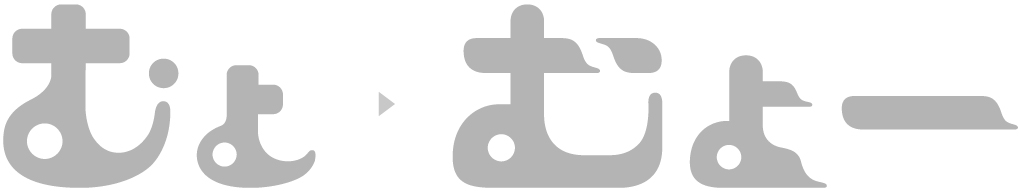
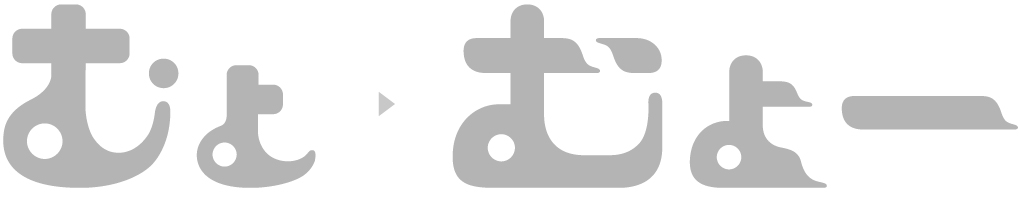
Adjust position of type sort menu

diff --git a/dist/css/style.css b/dist/css/style.css
@@ -1,1 +1,1 @@
-html{font-size:62.5%}body{overflow:hidden}body,button{font-size:1.4rem;font-family:vdl-yotag,Hiragino Kaku Gothic ProN,Hiragino Sans,Meiryo,sans-serif;font-weight:500}button:active{border:none}.wrapper{display:-webkit-box;display:-ms-flexbox;display:flex;visibility:visible;opacity:1;-webkit-transition:1.5s;transition:1.5s}.wrapper--hidden{visibility:hidden;opacity:0}@media screen and (max-width:53.125em){.wrapper{-webkit-box-orient:vertical;-webkit-box-direction:normal;-ms-flex-direction:column;flex-direction:column}}.loading{width:100vw;height:100vh;display:-webkit-box;display:-ms-flexbox;display:flex;-webkit-box-pack:center;-ms-flex-pack:center;justify-content:center;-webkit-box-align:center;-ms-flex-align:center;align-items:center}.loading--hidden{display:none}.loading__img{width:10vw}@media screen and (max-width:53.125em){.loading__img{width:25vw}}.loading__icon{width:100%}.noscript__alert{font-size:1.4rem;line-height:1.7;letter-spacing:.03;color:#ff1919;padding:1.5rem 2rem;margin:3rem;border:.2rem solid #ff1919;border-radius:.8rem}.works{width:39.2%;height:100vh;margin-left:4rem;display:-webkit-box;display:-ms-flexbox;display:flex;-webkit-box-pack:center;-ms-flex-pack:center;justify-content:center;-webkit-box-align:center;-ms-flex-align:center;align-items:center;overflow:auto;opacity:1;-webkit-transition:.7s;transition:.7s}@media screen and (max-width:53.125em){.works{width:100%;max-width:100%;height:39vh;padding:2.99850075vh}}.works--emphasis{width:78.4%;padding:4rem 4rem 0 0;-webkit-box-pack:start;-ms-flex-pack:start;justify-content:start;-webkit-box-align:start;-ms-flex-align:start;align-items:start;-webkit-transition:.7s,padding 0s;transition:.7s,padding 0s}@media screen and (min-width:102.5em){.works--emphasis{width:100%}}@media screen and (max-width:53.125em){.works--emphasis{width:100%;height:78vh;padding-top:2.99850075vh}}.works--hidden{width:4rem;padding:0;margin:0;opacity:0;overflow:hidden;-webkit-transition:.7s;transition:.7s}@media screen and (max-width:53.125em){.works--hidden{height:0}}.works__summary{text-align:center}.works__summary--hidden{display:none}.works__summary__subheading{font-size:3rem;letter-spacing:-.03rem;color:#787878;margin:2rem 0 0}.works__summary__primary-works{display:-webkit-box;display:-ms-flexbox;display:flex;-webkit-box-pack:justify;-ms-flex-pack:justify;justify-content:space-between;width:37rem}.works__summary__primary-work{display:inline-block;width:18rem;padding:4rem 0 2rem;color:#88b5d3}.works__summary__primary-note{font-size:1rem}.works__summary__chart{width:100%;margin-bottom:.7rem}.works__summary__link{display:block;font-size:2rem;color:#88b5d3;padding:2rem 0;margin:0 auto}.works__list{width:100%;height:100%;position:relative}.works__list--hidden{display:none}.works__nav{position:fixed;bottom:2rem;margin-left:calc(78.4% - 19.6359rem);z-index:10}.works__nav--hidden{display:none}.works__nav-list{padding:2rem 2rem 2rem 4rem;background:hsla(0,0%,100%,.8)}.works__sort{position:relative}.works__sort:not(.works__sort--last){margin-bottom:1.6rem}.works__sort-button{font-size:1.6rem;color:#88b5d3}.works__sort--active:after{content:"";width:1.2rem;height:.1rem;background:#88b5d3;position:absolute;top:0;bottom:0;left:-2.5rem;margin:auto 0}.works__contents{display:-webkit-box;display:-ms-flexbox;display:flex;-ms-flex-wrap:wrap;flex-wrap:wrap;-webkit-box-pack:justify;-ms-flex-pack:justify;justify-content:space-between}.works__contents--hidden{display:none}.works__work{width:30.943396226%}.works__work--hidden{display:none}.works__work--empty{visibility:hidden}.works__work-button{margin-bottom:4rem}.works__work-image{width:100%;margin-bottom:.7rem}.works__work-title{font-size:1.6rem;color:#88b5d3;text-align:center}.works__work-note{font-size:1.2rem}.works__detail{position:relative}.works__detail--hidden{display:none}.works__detail__contents{display:-webkit-box;display:-ms-flexbox;display:flex;-webkit-box-pack:justify;-ms-flex-pack:justify;justify-content:space-between}.works__detail__images,.works__detail__text{width:47.641509434%;margin-bottom:4rem;letter-spacing:.03rem}.works__detail__image{width:100%;margin-top:2rem}.works__detail__image--first{margin-top:0}.works__detail__image-caption{margin-top:.7rem;font-family:Hiragino Kaku Gothic ProN,Hiragino Sans,Meiryo,sans-serif;font-size:1.1rem;color:#787878}.works__detail__image-caption-link{color:#88b5d3}.works__detail__image-caption-link:hover{opacity:.8;-webkit-transition:.1s;transition:.1s}.works__detail__title{font-size:3.6rem;margin:0 0 1.4rem;color:#787878;letter-spacing:-.1rem}.works__detail__title-note{font-size:2.4rem}.works__detail__description{font-size:1.3rem;line-height:1.8;color:#787878;margin-bottom:8rem;font-family:Hiragino Kaku Gothic ProN,Hiragino Sans,Meiryo,sans-serif}.works__detail__description--last{margin-bottom:0}.works__detail__description-link{color:#88b5d3;margin-right:1.8rem;position:relative}.works__detail__description-link:after{content:url(../image/icon_blank.svg);position:absolute;top:-.5rem;right:-1.4rem}.works__detail__description-link:hover{opacity:.8;-webkit-transition:.1s;transition:.1s}.works__detail__links{margin-top:3.4rem;line-height:1}.works__detail__link{font-size:2.6rem;font-family:vdl-yotag,Hiragino Kaku Gothic ProN,Hiragino Sans,Meiryo,sans-serif;color:#88b5d3;display:inline-block;position:relative;margin-bottom:2rem}.works__detail__link--last{margin-bottom:0}.works__detail__link:hover{opacity:.8;-webkit-transition:.1s;transition:.1s}.works__detail__link:after{content:url(../image/icon_blank.svg);position:absolute;bottom:0;right:-1.6rem}.works__detail__image-link{position:relative;width:100%;display:block}.works__detail__image-link--movie:before{content:"";position:absolute;top:2rem;left:0;width:100%;height:calc(100% - 2rem);background:rgba(0,0,0,.6);z-index:10}.works__detail__image-link--movie:after{content:"";width:8.7rem;height:8.1rem;background-image:url(../image/icon_movie.png);background-size:cover;position:absolute;top:calc(50% + 2rem);left:50%;-webkit-transform:translate(-50%,-50%);transform:translate(-50%,-50%);z-index:20}.works__detail__heading{font-size:3rem;margin:0 0 1.4rem;color:#787878}.works__detail__heading--kata{letter-spacing:-.3rem}.works__detail__process{display:-webkit-box;display:-ms-flexbox;display:flex;-ms-flex-wrap:wrap;flex-wrap:wrap}.works__detail__process-list{width:7rem;height:7rem;border:.1rem solid #c8c8c8;border-radius:50%;font-size:1.8rem;color:#787878;text-align:center;position:relative;display:-webkit-box;display:-ms-flexbox;display:flex;-webkit-box-pack:center;-ms-flex-pack:center;justify-content:center;-webkit-box-align:center;-ms-flex-align:center;align-items:center;margin:0 3rem 1.4rem 0}.works__detail__process-list:not(.works__detail__process-list--last):after{content:url(../image/works_process_allow.svg);position:absolute;top:50%;right:-2rem;-webkit-transform:translateY(-50%);transform:translateY(-50%)}.works__detail__process-list--link{border-color:#88b5d3}.works__detail__process-list--last{margin-right:0}.works__detail__process-link{color:#88b5d3;display:block;margin-top:-1.3rem;padding:.5rem}.works__detail__process-link:after{content:url(../image/icon_blank.svg);position:absolute;bottom:.6rem;left:0;right:0;margin:0 auto}.works__detail__process-link:hover{opacity:.8;-webkit-transition:.1s;transition:.1s}.works__detail__process-image{width:100%;margin-bottom:.4rem}.works__detail__process-image:not(:first-of-type){margin-top:4rem}.works__detail__itemize{display:-webkit-box;display:-ms-flexbox;display:flex;-webkit-box-pack:justify;-ms-flex-pack:justify;justify-content:space-between}.works__detail__item{width:46.078431373%}.works__close{font-size:1.6rem;color:#88b5d3;padding:1.5rem 2rem;background:hsla(0,0%,100%,.8);position:fixed;top:0;margin-left:calc(78.4% - 15.9375rem);z-index:10}.works__loading{width:100%;height:82.616179002vh;display:-webkit-box;display:-ms-flexbox;display:flex;-webkit-box-pack:center;-ms-flex-pack:center;justify-content:center;-webkit-box-align:center;-ms-flex-align:center;align-items:center}@media screen and (max-width:53.125em){.works__loading{height:70.804497751vh}}.works__loading--hidden{display:none}.works__loading__img{width:10%}@media screen and (max-width:53.125em){.works__loading__img{width:25%}}.works__loading__icon{width:100%}.main-nav{width:21.6%;height:100vh;max-width:27rem;margin:0 .1rem;-webkit-box-shadow:0 0 .2rem 0 #c8c8c8;box-shadow:0 0 .2rem 0 #c8c8c8;position:relative;display:-webkit-box;display:-ms-flexbox;display:flex;-webkit-box-orient:vertical;-webkit-box-direction:normal;-ms-flex-direction:column;flex-direction:column;-webkit-box-pack:justify;-ms-flex-pack:justify;justify-content:space-between}@media screen and (max-width:53.125em){.main-nav{width:100%;max-width:100%;height:22vh;padding:2.99850075vh 0 2.248875562vh;margin:0;-webkit-box-shadow:0 0 .4rem 0 #c8c8c8;box-shadow:0 0 .4rem 0 #c8c8c8}}.main-nav__title{width:calc(100% - 8rem);max-width:19rem;margin:4rem auto;cursor:pointer}@media screen and (max-width:53.125em){.main-nav__titles{display:-webkit-box;display:-ms-flexbox;display:flex;margin-bottom:.449775112vh;padding:0 2.99850075vh}.main-nav__title{width:10.344827586vh;max-width:10.344827586vh;margin-bottom:0;display:inline-block}}.main-nav__logo{width:100%}@media screen and (max-width:53.125em){.main-nav-sp__descriptions{display:-webkit-box;display:-ms-flexbox;display:flex;-webkit-box-orient:vertical;-webkit-box-direction:normal;-ms-flex-direction:column;flex-direction:column;margin-left:2.3988006vh}}.main-nav__description{font-size:1.4rem;line-height:2.6rem;letter-spacing:.1rem;color:#787878;padding:0 4rem;margin-bottom:4rem}@media screen and (max-width:80em){.main-nav__description{font-size:1.2rem;margin-bottom:2.5rem;letter-spacing:.03rem;line-height:2rem}}@media screen and (max-width:53.125em){.main-nav__description{font-size:1.649175412vh;line-height:1.5;margin-bottom:0}}@media screen and (max-width:53.125em){.main-nav__link-lists{display:-webkit-box;display:-ms-flexbox;display:flex;-webkit-box-pack:justify;-ms-flex-pack:justify;justify-content:space-between}}.main-nav__link-list{font-size:2rem;text-align:center;position:relative;margin-bottom:3rem;cursor:pointer}@media screen and (max-width:80em){.main-nav__link-list{font-size:1.8rem;padding-bottom:.8rem;margin-bottom:2.5rem}}@media screen and (max-width:53.125em){.main-nav__link-list{width:33.33333vw;font-size:1.949025487vh;text-align:center;padding:2.248875562vh 0 2.99850075vh;border:none;margin-bottom:0;position:relative}.main-nav__link-list:not(:last-of-type):before{content:"";width:.1rem;height:5.097451274vh;background:#88b5d3;position:absolute;top:1.499250375vh;right:0}.main-nav__link-list:after{top:auto;left:0;right:0;bottom:.59970015vh;margin:0 auto;-webkit-transform:rotate(90deg) scale(.8);transform:rotate(90deg) scale(.8)}}.main-nav__link-list--blank:after{content:url(../image/icon_blank.svg);position:absolute;top:50%;left:4rem;-webkit-transform:translateY(-50%);transform:translateY(-50%)}.main-nav__link-button{width:100%;font-size:2rem;color:#88b5d3}.main-nav__link-button--active:after{content:"";width:1.2rem;height:.1rem;background:#88b5d3;position:absolute;top:50%;left:4rem;-webkit-transform:translateY(-50%);transform:translateY(-50%)}.main-nav__link{color:#88b5d3;display:block}.main-nav__icon-link-list{display:-webkit-box;display:-ms-flexbox;display:flex;position:absolute;bottom:4rem;left:4rem;visibility:visible;opacity:1;-webkit-transition:.3s;transition:.3s}@media screen and (max-width:53.125em){.main-nav__icon-link-list{top:2.248875562vh;bottom:auto;left:auto;right:2.99850075vh}}.main-nav__icon-link-list--hidden{visibility:hidden;opacity:0;-webkit-transition:.3s;transition:.3s}.main-nav__icon-link:not(:first-of-type){margin-left:3rem}@media screen and (max-width:80em){.main-nav__icon-link:not(:first-of-type){margin-left:1.8rem}}.main-nav__icon-link--github{width:3.3rem}.main-nav__icon-link--note{width:2.8rem}.main-nav__icon-link--blog{width:3.2rem}@media screen and (max-width:80em){.main-nav__icon-link--github{width:2.6rem}.main-nav__icon-link--note{width:2.1rem}.main-nav__icon-link--blog{width:2.5rem}}.main-nav__icon-link__logo{width:100%}.main-nav__footer{padding:0 .5rem .5rem;font-family:Hiragino Kaku Gothic ProN,Hiragino Sans,Meiryo,sans-serif;font-size:1rem;color:#c8c8c8;line-height:1.5;letter-spacing:-.02rem;text-align:center}@media screen and (max-width:53.125em){.main-nav__footer{left:auto;right:.449775112vh;bottom:.449775112vh;padding:0}}.main-nav__policy{font-size:1rem;color:#88b5d3;font-family:Hiragino Kaku Gothic ProN,Hiragino Sans,Meiryo,sans-serif}.about{width:39.2%;height:100vh;margin-left:4rem;display:-webkit-box;display:-ms-flexbox;display:flex;-webkit-box-pack:center;-ms-flex-pack:center;justify-content:center;-webkit-box-align:center;-ms-flex-align:center;align-items:center;overflow:auto;opacity:1;-webkit-transition:.7s;transition:.7s}@media screen and (max-width:53.125em){.about{width:100%;max-width:100%;height:39vh;padding:2.99850075vh}}.about--emphasis{width:78.4%;padding:4rem 4rem 0 0;-webkit-box-pack:start;-ms-flex-pack:start;justify-content:start;-webkit-box-align:start;-ms-flex-align:start;align-items:start;-webkit-transition:.7s,padding 0s;transition:.7s,padding 0s}@media screen and (min-width:102.5em){.about--emphasis{width:100%}}@media screen and (max-width:53.125em){.about--emphasis{width:100%;height:78vh;padding-top:2.99850075vh}}.about--hidden{width:4rem;padding:0;margin:0;opacity:0;overflow:hidden;-webkit-transition:.7s;transition:.7s}@media screen and (max-width:53.125em){.about--hidden{height:0}}.about__summary{text-align:center}.about__summary--hidden{display:none}.about__summary__heading{font-size:3rem;letter-spacing:-.03rem;color:#787878;margin:2rem 0 4.6rem}.about__summary__img{display:-webkit-box;display:-ms-flexbox;display:flex;-webkit-box-pack:center;-ms-flex-pack:center;justify-content:center;-webkit-box-align:center;-ms-flex-align:center;align-items:center;width:5rem;height:5rem;margin:0 auto 1.4rem}.about__allow{width:24.6rem;margin:0 auto 3rem}.about__summary__chart{width:100%}.about__summary__descriptions{display:-webkit-box;display:-ms-flexbox;display:flex;-webkit-box-pack:justify;-ms-flex-pack:justify;justify-content:space-between;width:36rem;margin:1.4rem 0}.about__summary__description{color:#787878;text-align:center;width:12rem;position:relative}.about__summary__description:not(.about__summary__description--last):after{content:"";width:2.5rem;height:.1rem;background:#c8c8c8;position:absolute;top:2.5rem;right:-1.2rem}.about__summary__description-note{font-size:1.1rem}.about__summary__description--boss,.about__summary__description--friend{margin-left:4rem}.about__summary__link{display:block;font-size:2rem;color:#88b5d3;padding:2rem 0;margin:0 auto}.about__profile{width:100%}.about__profile--hidden{display:none}.about__title{display:-webkit-box;display:-ms-flexbox;display:flex;margin-bottom:8rem}.about__image{width:100%}.about__character{width:9.6rem}.about__names{display:-webkit-box;display:-ms-flexbox;display:flex;-webkit-box-orient:vertical;-webkit-box-direction:normal;-ms-flex-direction:column;flex-direction:column;-webkit-box-pack:end;-ms-flex-pack:end;justify-content:flex-end;margin-left:2rem}.about__logo-image{width:14rem;margin-bottom:.7rem}.about__logo{width:100%}.about__subtitle{font-size:3rem;color:#787878;letter-spacing:-.1rem}.about__details{display:-webkit-box;display:-ms-flexbox;display:flex;-webkit-box-pack:justify;-ms-flex-pack:justify;justify-content:space-between;-ms-flex-wrap:wrap;flex-wrap:wrap}.about__detail{width:calc(50% - 2rem);margin-bottom:8rem}.about__detail--empty{visibility:hidden}.about__detail-title{font-size:3rem;color:#787878;margin-bottom:2rem}.about__detail-title--kata{letter-spacing:-.3rem}.about__rpg-chart{width:32.4rem;margin-bottom:2rem}.about__description{font-size:1.3rem;font-family:Hiragino Kaku Gothic ProN,Hiragino Sans,Meiryo,sans-serif;color:#787878;line-height:1.8;letter-spacing:.05rem}.about__note{font-size:1rem}.about__contact{font-size:2.4rem;color:#88b5d3}.about__detail-icon{width:14.7rem;margin-bottom:2rem}
+html{font-size:62.5%}body{overflow:hidden}body,button{font-size:1.4rem;font-family:vdl-yotag,Hiragino Kaku Gothic ProN,Hiragino Sans,Meiryo,sans-serif;font-weight:500}button:active{border:none}.wrapper{display:-webkit-box;display:-ms-flexbox;display:flex;visibility:visible;opacity:1;-webkit-transition:1.5s;transition:1.5s}.wrapper--hidden{visibility:hidden;opacity:0}@media screen and (max-width:53.125em){.wrapper{-webkit-box-orient:vertical;-webkit-box-direction:normal;-ms-flex-direction:column;flex-direction:column}}.loading{width:100vw;height:100vh;display:-webkit-box;display:-ms-flexbox;display:flex;-webkit-box-pack:center;-ms-flex-pack:center;justify-content:center;-webkit-box-align:center;-ms-flex-align:center;align-items:center}.loading--hidden{display:none}.loading__img{width:10vw}@media screen and (max-width:53.125em){.loading__img{width:25vw}}.loading__icon{width:100%}.noscript__alert{font-size:1.4rem;line-height:1.7;letter-spacing:.03;color:#ff1919;padding:1.5rem 2rem;margin:3rem;border:.2rem solid #ff1919;border-radius:.8rem}.works{width:39.2%;height:100vh;margin-left:4rem;display:-webkit-box;display:-ms-flexbox;display:flex;-webkit-box-pack:center;-ms-flex-pack:center;justify-content:center;-webkit-box-align:center;-ms-flex-align:center;align-items:center;overflow:auto;opacity:1;-webkit-transition:.7s;transition:.7s}@media screen and (max-width:53.125em){.works{width:100%;max-width:100%;height:39vh;padding:2.99850075vh}}.works--emphasis{width:78.4%;padding:4rem 4rem 0 0;-webkit-box-pack:start;-ms-flex-pack:start;justify-content:start;-webkit-box-align:start;-ms-flex-align:start;align-items:start;-webkit-transition:.7s,padding 0s;transition:.7s,padding 0s}@media screen and (min-width:102.5em){.works--emphasis{width:100%}}@media screen and (max-width:53.125em){.works--emphasis{width:100%;height:78vh;padding-top:2.99850075vh}}.works--hidden{width:4rem;padding:0;margin:0;opacity:0;overflow:hidden;-webkit-transition:.7s;transition:.7s}@media screen and (max-width:53.125em){.works--hidden{height:0}}.works__summary{text-align:center}.works__summary--hidden{display:none}.works__summary__subheading{font-size:3rem;letter-spacing:-.03rem;color:#787878;margin:2rem 0 0}.works__summary__primary-works{display:-webkit-box;display:-ms-flexbox;display:flex;-webkit-box-pack:justify;-ms-flex-pack:justify;justify-content:space-between;width:37rem}.works__summary__primary-work{display:inline-block;width:18rem;padding:4rem 0 2rem;color:#88b5d3}.works__summary__primary-note{font-size:1rem}.works__summary__chart{width:100%;margin-bottom:.7rem}.works__summary__link{display:block;font-size:2rem;color:#88b5d3;padding:2rem 0;margin:0 auto}.works__list{width:100%;height:100%;position:relative;display:-webkit-box;display:-ms-flexbox;display:flex;-webkit-box-pack:end;-ms-flex-pack:end;justify-content:flex-end;-webkit-box-align:start;-ms-flex-align:start;align-items:flex-start}.works__list--hidden{display:none}.works__nav{position:fixed;bottom:2rem;z-index:10;margin-left:2rem}.works__nav--hidden{display:none}.works__nav-list{padding:2rem 2rem 2rem 4rem;background:hsla(0,0%,100%,.8)}.works__sort{position:relative}.works__sort:not(.works__sort--last){margin-bottom:1.6rem}.works__sort-button{font-size:1.6rem;color:#88b5d3}.works__sort--active:after{content:"";width:1.2rem;height:.1rem;background:#88b5d3;position:absolute;top:0;bottom:0;left:-2.5rem;margin:auto 0}.works__contents{display:-webkit-box;display:-ms-flexbox;display:flex;-ms-flex-wrap:wrap;flex-wrap:wrap;-webkit-box-pack:justify;-ms-flex-pack:justify;justify-content:space-between;width:100%}.works__contents--hidden{display:none}.works__work{width:30.943396226%}.works__work--hidden{display:none}.works__work--empty{visibility:hidden}.works__work-button{margin-bottom:4rem}.works__work-image{width:100%;margin-bottom:.7rem}.works__work-title{font-size:1.6rem;color:#88b5d3;text-align:center}.works__work-note{font-size:1.2rem}.works__detail{position:relative;display:-webkit-box;display:-ms-flexbox;display:flex;-webkit-box-pack:end;-ms-flex-pack:end;justify-content:flex-end}.works__detail--hidden{display:none}.works__detail__contents{display:-webkit-box;display:-ms-flexbox;display:flex;-webkit-box-pack:justify;-ms-flex-pack:justify;justify-content:space-between}.works__detail__images,.works__detail__text{width:47.641509434%;margin-bottom:4rem;letter-spacing:.03rem}.works__detail__image{width:100%;margin-top:2rem}.works__detail__image--first{margin-top:0}.works__detail__image-caption{margin-top:.7rem;font-family:Hiragino Kaku Gothic ProN,Hiragino Sans,Meiryo,sans-serif;font-size:1.1rem;color:#787878}.works__detail__image-caption-link{color:#88b5d3}.works__detail__image-caption-link:hover{opacity:.8;-webkit-transition:.1s;transition:.1s}.works__detail__title{font-size:3.6rem;margin:0 0 1.4rem;color:#787878;letter-spacing:-.1rem}.works__detail__title-note{font-size:2.4rem}.works__detail__description{font-size:1.3rem;line-height:1.8;color:#787878;margin-bottom:8rem;font-family:Hiragino Kaku Gothic ProN,Hiragino Sans,Meiryo,sans-serif}.works__detail__description--last{margin-bottom:0}.works__detail__description-link{color:#88b5d3;margin-right:1.8rem;position:relative}.works__detail__description-link:after{content:url(../image/icon_blank.svg);position:absolute;top:-.5rem;right:-1.4rem}.works__detail__description-link:hover{opacity:.8;-webkit-transition:.1s;transition:.1s}.works__detail__links{margin-top:3.4rem;line-height:1}.works__detail__link{font-size:2.6rem;font-family:vdl-yotag,Hiragino Kaku Gothic ProN,Hiragino Sans,Meiryo,sans-serif;color:#88b5d3;display:inline-block;position:relative;margin-bottom:2rem}.works__detail__link--last{margin-bottom:0}.works__detail__link:hover{opacity:.8;-webkit-transition:.1s;transition:.1s}.works__detail__link:after{content:url(../image/icon_blank.svg);position:absolute;bottom:0;right:-1.6rem}.works__detail__image-link{position:relative;width:100%;display:block}.works__detail__image-link--movie:before{content:"";position:absolute;top:2rem;left:0;width:100%;height:calc(100% - 2rem);background:rgba(0,0,0,.6);z-index:10}.works__detail__image-link--movie:after{content:"";width:8.7rem;height:8.1rem;background-image:url(../image/icon_movie.png);background-size:cover;position:absolute;top:calc(50% + 2rem);left:50%;-webkit-transform:translate(-50%,-50%);transform:translate(-50%,-50%);z-index:20}.works__detail__heading{font-size:3rem;margin:0 0 1.4rem;color:#787878}.works__detail__heading--kata{letter-spacing:-.3rem}.works__detail__process{display:-webkit-box;display:-ms-flexbox;display:flex;-ms-flex-wrap:wrap;flex-wrap:wrap}.works__detail__process-list{width:7rem;height:7rem;border:.1rem solid #c8c8c8;border-radius:50%;font-size:1.8rem;color:#787878;text-align:center;position:relative;display:-webkit-box;display:-ms-flexbox;display:flex;-webkit-box-pack:center;-ms-flex-pack:center;justify-content:center;-webkit-box-align:center;-ms-flex-align:center;align-items:center;margin:0 3rem 1.4rem 0}.works__detail__process-list:not(.works__detail__process-list--last):after{content:url(../image/works_process_allow.svg);position:absolute;top:50%;right:-2rem;-webkit-transform:translateY(-50%);transform:translateY(-50%)}.works__detail__process-list--link{border-color:#88b5d3}.works__detail__process-list--last{margin-right:0}.works__detail__process-link{color:#88b5d3;display:block;margin-top:-1.3rem;padding:.5rem}.works__detail__process-link:after{content:url(../image/icon_blank.svg);position:absolute;bottom:.6rem;left:0;right:0;margin:0 auto}.works__detail__process-link:hover{opacity:.8;-webkit-transition:.1s;transition:.1s}.works__detail__process-image{width:100%;margin-bottom:.4rem}.works__detail__process-image:not(:first-of-type){margin-top:4rem}.works__detail__itemize{display:-webkit-box;display:-ms-flexbox;display:flex;-webkit-box-pack:justify;-ms-flex-pack:justify;justify-content:space-between}.works__detail__item{width:46.078431373%}.works__close{font-size:1.6rem;color:#88b5d3;padding:1.5rem 2rem;background:hsla(0,0%,100%,.8);position:fixed;top:0;margin-left:2rem;z-index:10}.works__loading{width:100%;height:82.616179002vh;display:-webkit-box;display:-ms-flexbox;display:flex;-webkit-box-pack:center;-ms-flex-pack:center;justify-content:center;-webkit-box-align:center;-ms-flex-align:center;align-items:center}@media screen and (max-width:53.125em){.works__loading{height:70.804497751vh}}.works__loading--hidden{display:none}.works__loading__img{width:10%}@media screen and (max-width:53.125em){.works__loading__img{width:25%}}.works__loading__icon{width:100%}.main-nav{width:21.6%;height:100vh;max-width:27rem;margin:0 .1rem;-webkit-box-shadow:0 0 .2rem 0 #c8c8c8;box-shadow:0 0 .2rem 0 #c8c8c8;position:relative;display:-webkit-box;display:-ms-flexbox;display:flex;-webkit-box-orient:vertical;-webkit-box-direction:normal;-ms-flex-direction:column;flex-direction:column;-webkit-box-pack:justify;-ms-flex-pack:justify;justify-content:space-between}@media screen and (max-width:53.125em){.main-nav{width:100%;max-width:100%;height:22vh;padding:2.99850075vh 0 2.248875562vh;margin:0;-webkit-box-shadow:0 0 .4rem 0 #c8c8c8;box-shadow:0 0 .4rem 0 #c8c8c8}}.main-nav__title{width:calc(100% - 8rem);max-width:19rem;margin:4rem auto;cursor:pointer}@media screen and (max-width:53.125em){.main-nav__titles{display:-webkit-box;display:-ms-flexbox;display:flex;margin-bottom:.449775112vh;padding:0 2.99850075vh}.main-nav__title{width:10.344827586vh;max-width:10.344827586vh;margin-bottom:0;display:inline-block}}.main-nav__logo{width:100%}@media screen and (max-width:53.125em){.main-nav-sp__descriptions{display:-webkit-box;display:-ms-flexbox;display:flex;-webkit-box-orient:vertical;-webkit-box-direction:normal;-ms-flex-direction:column;flex-direction:column;margin-left:2.3988006vh}}.main-nav__description{font-size:1.4rem;line-height:2.6rem;letter-spacing:.1rem;color:#787878;padding:0 4rem;margin-bottom:4rem}@media screen and (max-width:80em){.main-nav__description{font-size:1.2rem;margin-bottom:2.5rem;letter-spacing:.03rem;line-height:2rem}}@media screen and (max-width:53.125em){.main-nav__description{font-size:1.649175412vh;line-height:1.5;margin-bottom:0}}@media screen and (max-width:53.125em){.main-nav__link-lists{display:-webkit-box;display:-ms-flexbox;display:flex;-webkit-box-pack:justify;-ms-flex-pack:justify;justify-content:space-between}}.main-nav__link-list{font-size:2rem;text-align:center;position:relative;margin-bottom:3rem;cursor:pointer}@media screen and (max-width:80em){.main-nav__link-list{font-size:1.8rem;padding-bottom:.8rem;margin-bottom:2.5rem}}@media screen and (max-width:53.125em){.main-nav__link-list{width:33.33333vw;font-size:1.949025487vh;text-align:center;padding:2.248875562vh 0 2.99850075vh;border:none;margin-bottom:0;position:relative}.main-nav__link-list:not(:last-of-type):before{content:"";width:.1rem;height:5.097451274vh;background:#88b5d3;position:absolute;top:1.499250375vh;right:0}.main-nav__link-list:after{top:auto;left:0;right:0;bottom:.59970015vh;margin:0 auto;-webkit-transform:rotate(90deg) scale(.8);transform:rotate(90deg) scale(.8)}}.main-nav__link-list--blank:after{content:url(../image/icon_blank.svg);position:absolute;top:50%;left:4rem;-webkit-transform:translateY(-50%);transform:translateY(-50%)}.main-nav__link-button{width:100%;font-size:2rem;color:#88b5d3}.main-nav__link-button--active:after{content:"";width:1.2rem;height:.1rem;background:#88b5d3;position:absolute;top:50%;left:4rem;-webkit-transform:translateY(-50%);transform:translateY(-50%)}.main-nav__link{color:#88b5d3;display:block}.main-nav__icon-link-list{display:-webkit-box;display:-ms-flexbox;display:flex;position:absolute;bottom:4rem;left:4rem;visibility:visible;opacity:1;-webkit-transition:.3s;transition:.3s}@media screen and (max-width:53.125em){.main-nav__icon-link-list{top:2.248875562vh;bottom:auto;left:auto;right:2.99850075vh}}.main-nav__icon-link-list--hidden{visibility:hidden;opacity:0;-webkit-transition:.3s;transition:.3s}.main-nav__icon-link:not(:first-of-type){margin-left:3rem}@media screen and (max-width:80em){.main-nav__icon-link:not(:first-of-type){margin-left:1.8rem}}.main-nav__icon-link--github{width:3.3rem}.main-nav__icon-link--note{width:2.8rem}.main-nav__icon-link--blog{width:3.2rem}@media screen and (max-width:80em){.main-nav__icon-link--github{width:2.6rem}.main-nav__icon-link--note{width:2.1rem}.main-nav__icon-link--blog{width:2.5rem}}.main-nav__icon-link__logo{width:100%}.main-nav__footer{padding:0 .5rem .5rem;font-family:Hiragino Kaku Gothic ProN,Hiragino Sans,Meiryo,sans-serif;font-size:1rem;color:#c8c8c8;line-height:1.5;letter-spacing:-.02rem;text-align:center}@media screen and (max-width:53.125em){.main-nav__footer{left:auto;right:.449775112vh;bottom:.449775112vh;padding:0}}.main-nav__policy{font-size:1rem;color:#88b5d3;font-family:Hiragino Kaku Gothic ProN,Hiragino Sans,Meiryo,sans-serif}.about{width:39.2%;height:100vh;margin-left:4rem;display:-webkit-box;display:-ms-flexbox;display:flex;-webkit-box-pack:center;-ms-flex-pack:center;justify-content:center;-webkit-box-align:center;-ms-flex-align:center;align-items:center;overflow:auto;opacity:1;-webkit-transition:.7s;transition:.7s}@media screen and (max-width:53.125em){.about{width:100%;max-width:100%;height:39vh;padding:2.99850075vh}}.about--emphasis{width:78.4%;padding:4rem 4rem 0 0;-webkit-box-pack:start;-ms-flex-pack:start;justify-content:start;-webkit-box-align:start;-ms-flex-align:start;align-items:start;-webkit-transition:.7s,padding 0s;transition:.7s,padding 0s}@media screen and (min-width:102.5em){.about--emphasis{width:100%}}@media screen and (max-width:53.125em){.about--emphasis{width:100%;height:78vh;padding-top:2.99850075vh}}.about--hidden{width:4rem;padding:0;margin:0;opacity:0;overflow:hidden;-webkit-transition:.7s;transition:.7s}@media screen and (max-width:53.125em){.about--hidden{height:0}}.about__summary{text-align:center}.about__summary--hidden{display:none}.about__summary__heading{font-size:3rem;letter-spacing:-.03rem;color:#787878;margin:2rem 0 4.6rem}.about__summary__img{display:-webkit-box;display:-ms-flexbox;display:flex;-webkit-box-pack:center;-ms-flex-pack:center;justify-content:center;-webkit-box-align:center;-ms-flex-align:center;align-items:center;width:5rem;height:5rem;margin:0 auto 1.4rem}.about__allow{width:24.6rem;margin:0 auto 3rem}.about__summary__chart{width:100%}.about__summary__descriptions{display:-webkit-box;display:-ms-flexbox;display:flex;-webkit-box-pack:justify;-ms-flex-pack:justify;justify-content:space-between;width:36rem;margin:1.4rem 0}.about__summary__description{color:#787878;text-align:center;width:12rem;position:relative}.about__summary__description:not(.about__summary__description--last):after{content:"";width:2.5rem;height:.1rem;background:#c8c8c8;position:absolute;top:2.5rem;right:-1.2rem}.about__summary__description-note{font-size:1.1rem}.about__summary__description--boss,.about__summary__description--friend{margin-left:4rem}.about__summary__link{display:block;font-size:2rem;color:#88b5d3;padding:2rem 0;margin:0 auto}.about__profile{width:100%}.about__profile--hidden{display:none}.about__title{display:-webkit-box;display:-ms-flexbox;display:flex;margin-bottom:8rem}.about__image{width:100%}.about__character{width:9.6rem}.about__names{display:-webkit-box;display:-ms-flexbox;display:flex;-webkit-box-orient:vertical;-webkit-box-direction:normal;-ms-flex-direction:column;flex-direction:column;-webkit-box-pack:end;-ms-flex-pack:end;justify-content:flex-end;margin-left:2rem}.about__logo-image{width:14rem;margin-bottom:.7rem}.about__logo{width:100%}.about__subtitle{font-size:3rem;color:#787878;letter-spacing:-.1rem}.about__details{display:-webkit-box;display:-ms-flexbox;display:flex;-webkit-box-pack:justify;-ms-flex-pack:justify;justify-content:space-between;-ms-flex-wrap:wrap;flex-wrap:wrap}.about__detail{width:calc(50% - 2rem);margin-bottom:8rem}.about__detail--empty{visibility:hidden}.about__detail-title{font-size:3rem;color:#787878;margin-bottom:2rem}.about__detail-title--kata{letter-spacing:-.3rem}.about__rpg-chart{width:32.4rem;margin-bottom:2rem}.about__description{font-size:1.3rem;font-family:Hiragino Kaku Gothic ProN,Hiragino Sans,Meiryo,sans-serif;color:#787878;line-height:1.8;letter-spacing:.05rem}.about__note{font-size:1rem}.about__contact{font-size:2.4rem;color:#88b5d3}.about__detail-icon{width:14.7rem;margin-bottom:2rem}

diff --git a/src/css/style.css b/src/css/style.css
@@ -168,6 +168,9 @@ button:active {
   width: 100%;
   height: 100%;
   position: relative;
+  display: flex;
+  justify-content: flex-end;
+  align-items: flex-start;
 }
 .works__list--hidden {
   display: none;
@@ -175,8 +178,8 @@ button:active {
 .works__nav {
   position: fixed;
   bottom: 2rem;
-  margin-left: calc(78.4% - 19.6359rem); /* 19.6359: contentWidth + margin + padding */
   z-index: 10;
+  margin-left: 2rem;
 }
 .works__nav--hidden {
   display: none;
@@ -210,6 +213,7 @@ button:active {
   display: flex;
   flex-wrap: wrap;
   justify-content: space-between;
+  width: 100%;
 }
 .works__contents--hidden {
   display: none;
@@ -240,6 +244,8 @@ button:active {
 }
 .works__detail {
   position: relative;
+  display: flex;
+  justify-content: flex-end;
 }
 .works__detail--hidden {
   display: none;
@@ -451,7 +457,7 @@ button:active {
   background: rgba(255, 255, 255, .8);
   position: fixed;
   top: 0;
-  margin-left: calc(78.4% - 15.9375rem); /* 15.9375: contentWidth + margin + padding */
+  margin-left: 2rem;
   z-index: 10;
 }
 .works__loading {
